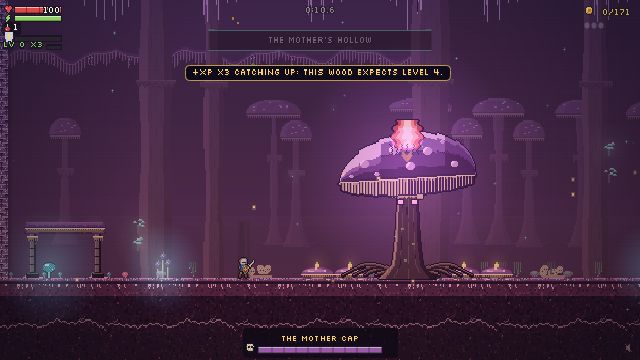
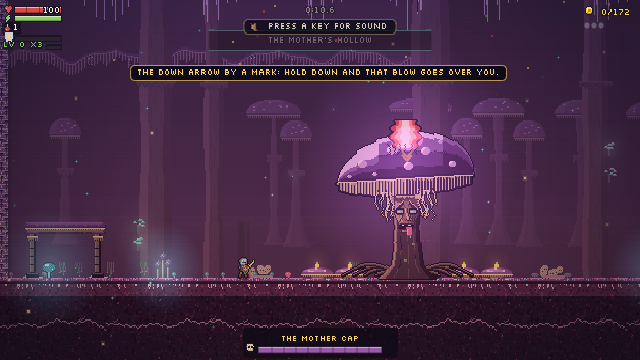
motherface: shots + sheet tools, before/after sheet, report

diff --git a/src/redraw/sporewood2_mother.js b/src/redraw/sporewood2_mother.js
@@ -79,7 +79,7 @@ function paintFace(g, P, fx, fy, net) {
   /* the dazed swirl (knot open): two foxfire spirals circling her head */
   if (P.swirl) { const ph = P.swirl === -1 ? 0 : P.swirl; for (const s of [-1, 1]) for (let i = 0; i < 14; i++) { const a = i * 0.55 + ph * 6.28 * s, rr = 1 + i * 0.5; R(g, i > 9 ? GLOW.hi : i % 3 ? '#ffd36b' : GLOW.c, fx + s * 21 + Math.round(Math.cos(a) * rr), fy + 12 + Math.round(Math.sin(a) * rr * 0.8), 1, 1); } }
   /* P2: the net lays foxfire veins over her face */
-  if (net && eye !== 'out' && eye !== 'dim') for (const [sx, sy, dir] of [[-10, 9, -1], [10, 9, 1], [-3, 2, -1], [4, 2, 1], [-8, 15, -1], [8, 15, 1], [0, 19, 1]]) { let x = sx, y = sy; for (let k = 0; k < 10; k++) { put(x, y, k % 3 ? GLOW.lo : GLOW.mid); if (k % 4 === 0) put(x + dir, y, GLOW.lo); x += dir * (hash(sx + k, sy) % 2); y += (k % 2); if (Math.abs(x) > 11 || y > plateH - 2) break; } }
+  if (net && eye !== 'out' && eye !== 'dim') for (const [sx, sy, dir] of [[-11, 9, -1], [11, 9, 1], [-4, 2, -1], [-9, 16, -1]]) { let x = sx, y = sy; for (let k = 0; k < 10; k++) { put(x, y, k % 3 ? GLOW.lo : GLOW.mid); if (k % 4 === 0) put(x + dir, y, GLOW.lo); x += dir * (hash(sx + k, sy) % 2); y += (k % 2); if (Math.abs(x) > 11 || y > plateH - 2) break; } }
 }
 /* the gills hang from the cap's rim down both sides of her face like hair: cream strands with a dark root, longer near her cheeks */
 function paintFringe(g, P, lxAt, rimAt, domeW, gillD, capCx, stalkTop) {

diff --git a/work/claude/lane-done/claude-motherface.md b/work/claude/lane-done/claude-motherface.md
@@ -1,0 +1,16 @@
+# MOTHERFACE (claude/motherface, sonnet art lane, 2026-10-23) - THE OLD MATRON IN THE STALK
+Base claude/sporewood2tune d4f36c54. Art only: level hash f48637fe943d, hitboxes, timings, AI unchanged. Files: src/redraw/sporewood2_mother.js (face, fringe, 8 idle + new pose params, death frames), src/mother-cap2.js (eye tracking + death hook), tools/sporewood2art.mjs (checks the new dead set, full-byte frame signatures), tools/motherface-shots.mjs + motherface-sheet.mjs.
+## What changed
+- A bark-flesh crone face grown into the stalk neck under the cap: heavy brows, deep-set foxfire eyes, long crooked nose, wide lipless mouth, wrinkles; the gills hang beside it like hair. The stalk's neck flares for it.
+- Per-state expressions: idle blink + eyes follow the hero (8 idle frames); lash tell narrow eyes, bared teeth, glare to the lash side; crush tell eyes roll up, grit; bloom/brood tells mouth gapes, cheeks puff (spray / puffball from the mouth on release); open: eyes rolled back, jaw slack, tongue out, dazed swirl; ward: wince; wither tell: hollow cheeks, pursed mouth; wake: eyes snap open; P2: blazing eyes with halo, snarling idle, foxfire veins over the face; death: eyes dim then out, face sags (new 3 frames).
+- Body language: cap now follows the stalk lean; windups lean AWAY and squat, releases throw the stalk and tilt the cap toward the attack; bigger crush squash, taller crush lift, bloom/brood head-back then forward; stalk coil on lash.
+- Bestiary / boss portrait recropped as a close-up with the face.
+## Pictures
+work/claude/lane-done/motherface-before-after.png (every state: bloom, bloomTell, brood, broodTell, crush, crushTell, death, idle, lash, lashTell, open, p2-idle, p2-lashTell, rise, wake, ward, wither, witherTell; before left, after right, game zoom); motherface-bestiary-icon.png.
+## Checks (port 8781, one browser at a time)
+sporewood2art green, sporewood2 green, sporewood2-probe green, textfit bestiary+card+boss --strict: 2332 screens, 0 issues. mobile-perf spore@424:14 (her arena, 4x CPU phone): 48.7 fps (base 51.5 same minute; one noisy run beside the gate read 38.7); glade 59.7.
+No boss-fight-end / full suite run (gate running).
+## Self-grade B+
+## QUESTIONS FOR DANIEL
+1. The face is 25 px wide in a 128 px cap - readable at desktop zoom, small at phone half-res. Rec built: as is. Option: scale the face up ~25% with a wider stalk neck.
+2. P2 veins are kept light on the face so the crone still reads. Rec built; say if you want it wilder.
